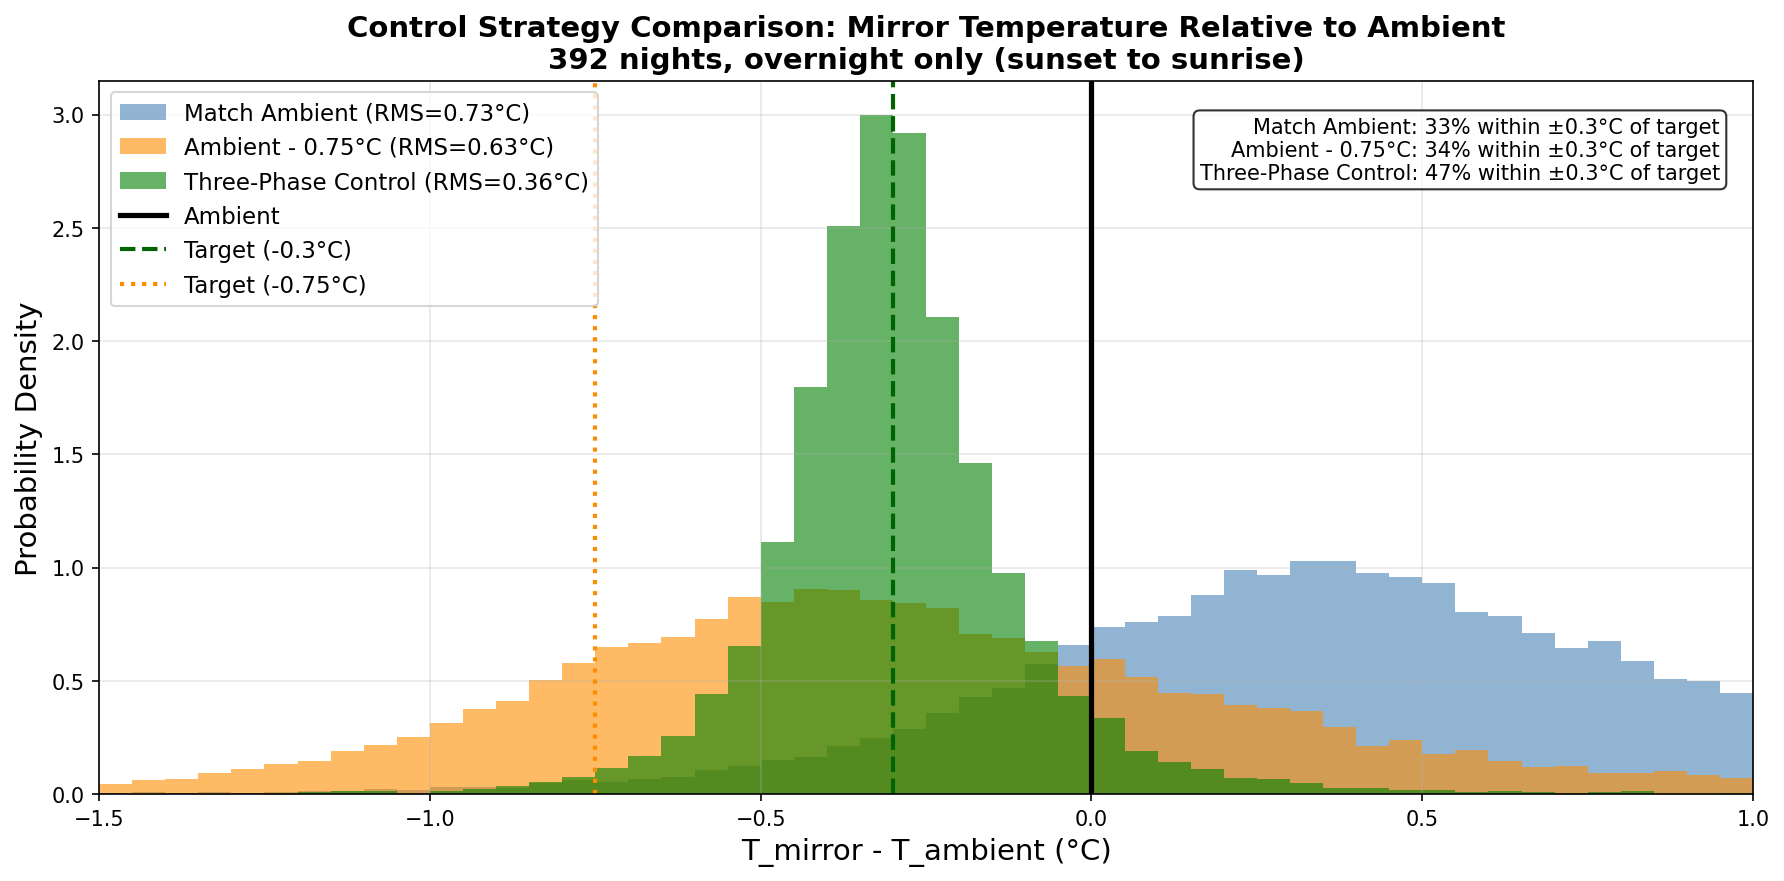
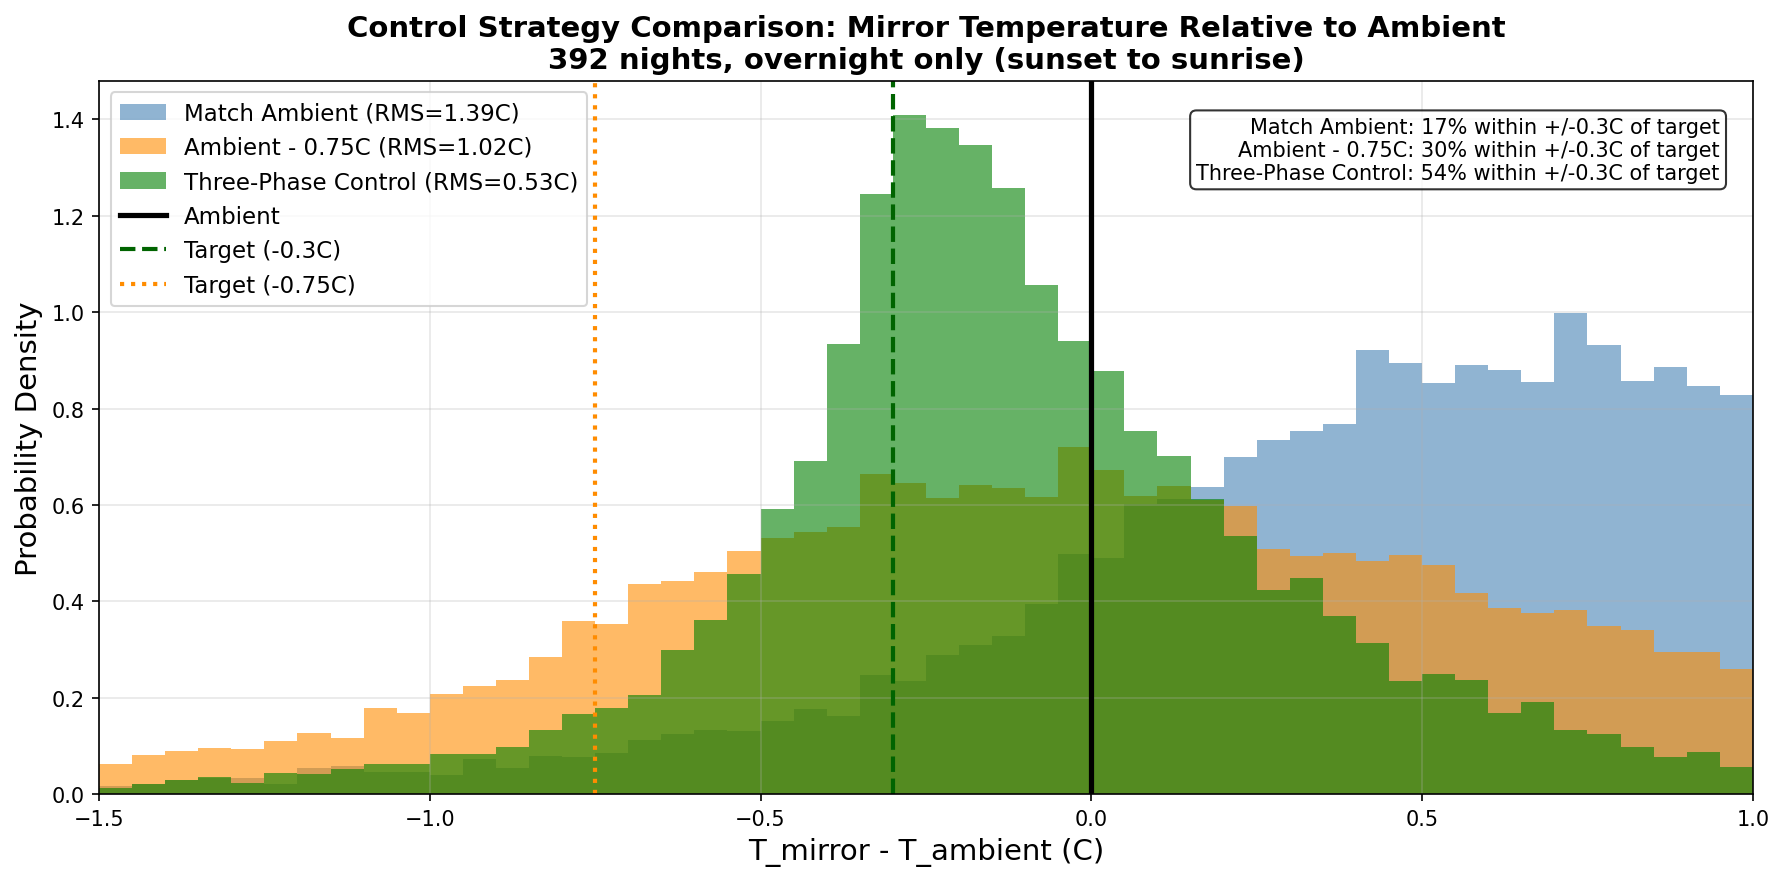
Update documentation and regenerate figures
- Update README.md with new repo structure and script guide
- Update CLAUDE.md with module breakdown and test details
- Set optimal config T1=-2h (from grid search optimization)
- Regenerate performance figures with 769 days of data

diff --git a/README.md b/README.md
@@ -1,94 +1,131 @@
 # Rubin Observatory Mirror Thermal Control
 
-Simulation and optimization of the thermal control system for the Rubin Observatory M1M3 primary/tertiary mirror at Cerro Pachon, Chile.
+Simulation and optimization of thermal control algorithms for the Rubin Observatory M1M3 primary/tertiary mirror at Cerro Pachon, Chile.
 
-## Problem
+## The Problem
 
-The M1M3 mirror has a large thermal time constant (~3 hours), meaning it cannot quickly track changes in ambient temperature. If the mirror is warmer than the surrounding air, convective plumes degrade image quality ("mirror seeing"). The goal is to keep the mirror approximately 0.3C below ambient at all times during nighttime observing, while respecting physical constraints on how fast the thermal control system can change its setpoint.
+The M1M3 mirror has a large thermal mass (time constant ~3 hours). If the mirror is warmer than ambient air, convective plumes cause "mirror seeing" that degrades image quality. The goal is to keep the mirror **~0.3°C below ambient** during nighttime observing.
 
-## Three-Phase Control Algorithm
+## Quick Start
 
-The core approach divides each 24-hour cycle into three phases:
+```bash
+# Install dependencies
+pip install -r requirements.txt
 
-**Phase 1 -- Daytime** (until T1 hours before sunset)
-- Dome is closed; HVAC maintains a fixed setpoint equal to the predicted sunset temperature minus a 0.3C cold bias.
+# Run optimization to find best parameters
+python scripts/optimize.py
 
-**Phase 2 -- Pre-Sunset Transition** (T1 to T2 hours before sunset)
-- Linear ramp from the fixed daytime setpoint toward active ambient tracking with rate compensation.
-- Bridges the gap between the static daytime target and the dynamic overnight algorithm.
-
-**Phase 3 -- Overnight** (T2 hours before sunset through sunrise)
-- Weighted lookahead algorithm using predicted ambient temperatures over the next 0-3 hours.
-- Includes rate-of-change compensation (0.5 * tau * dT/dt) to account for thermal lag.
-- Targets mirror temperature = ambient - 0.3C.
-
-### Physical Parameters
-
-| Parameter | Value | Description |
-|-----------|-------|-------------|
-| tau | 3.0 h | Mirror thermal time constant |
-| Max rate | 0.7 C/h | Maximum setpoint change rate |
-| Cold bias | 0.3 C | Target offset below ambient |
-| dt | 15 min | Simulation timestep |
+# Generate performance plots
+python scripts/performance.py
+```
 
 ## Repository Structure
 
-### Simulation Code
-
-- `three_phase_control.py` -- Main optimization script. Performs grid search over phase2 algorithms, T1, and T2 values using a train/test split (even/odd dates). Generates best-configuration plots.
-- `three_phase_performance_plots.py` -- Generates detailed performance figures: error histograms, CDFs, 20-night overview grid, and 6-night detailed views.
-- `sun_utils.py` -- Accurate sunrise/sunset calculations for Cerro Pachon using astropy. Provides `get_sun_times_for_date()` used by all simulation scripts.
-
-### Analysis & Visualization
-
-- `control_comparison_histogram.py` -- Compares three strategies: (1) match ambient, (2) fixed bias (ambient - 0.75C), (3) three-phase control. Generates overlay histograms.
-- `mirror_rate_histogram.py` -- Analyzes distribution of mirror vs ambient temperature rates of change during nighttime.
-- `three_day_plot.py` -- Generates a continuous 3-day simulation showing phase transitions, day/night cycles, and control behavior.
-- `analyze_warm_tail.py` -- Studies the warm-side tail of the error distribution (mirror warmer than ambient).
-
-### Reports
-
-- `thermal_control_report.tex` -- Comprehensive thermal control methodology and results.
-- `report1_prediction_methods.tex` -- Comparison of temperature prediction approaches.
-- `report2_thermal_control.tex` -- Thermal control system analysis.
-- `RAMP_algorithm_report.tex` -- Technical description of the RAMP control algorithm.
-- `slides_thermal_summary.tex` -- Beamer presentation slides.
-- `sunset_temperature_prediction_report.tex` -- Sunset temperature prediction methodology.
-
-### Data
-
-The temperature history CSV (not tracked in git due to size) contains ~50 days of continuous ambient temperature measurements from Cerro Pachon (December 2025 - January 2026) at sub-hourly resolution. Contact the authors for access.
-
-## Usage
-
-Run the optimization:
-```bash
-python3 three_phase_control.py
+```
+RubinThermal/
+├── config.yaml           # All tunable parameters
+├── rubin_thermal/        # Python package
+├── scripts/              # Analysis scripts
+├── tests/                # Unit tests (44 tests)
+├── data/                 # Temperature CSV files
+├── figures/              # Output plots
+├── docs/                 # Reports (PDF/TeX)
+└── notebooks/            # Jupyter notebooks
 ```
 
-Generate performance plots:
-```bash
-python3 three_phase_performance_plots.py
+## Scripts
+
+| Script | Purpose | Output |
+|--------|---------|--------|
+| `scripts/optimize.py` | Grid search over T1, T2, algorithms | Best config + `*_best.png`, `*_examples.png` |
+| `scripts/performance.py` | Evaluate current config | `*_histograms.png`, `*_20_nights.png`, `*_detailed_nights.png` |
+| `scripts/compare.py` | Compare vs baseline strategies | `control_comparison_*.png` |
+| `scripts/rate_analysis.py` | Mirror rate-of-change analysis | `mirror_rate_histogram.png` |
+| `scripts/three_day.py` | 3-day continuous simulation | `three_phase_3day.png` |
+| `scripts/warm_tail.py` | Analyze warm events (mirror > ambient) | Console output |
+
+### Recommended Order
+
+1. **`optimize.py`** — Find optimal T1, T2, and phase2 algorithm
+2. **`performance.py`** — Generate detailed performance plots
+3. **`compare.py`** — See improvement over baselines
+
+## Output Plots
+
+All plots are saved to `figures/`. Key outputs:
+
+| Plot | Description |
+|------|-------------|
+| `three_phase_07rate_3tau_histograms.png` | Error distribution histograms + CDF |
+| `three_phase_07rate_3tau_20_nights.png` | Grid of 20 example nights |
+| `three_phase_07rate_3tau_detailed_nights.png` | 6 nights with error traces |
+| `control_comparison_histogram.png` | Three-phase vs baselines |
+| `three_phase_3day.png` | 3-day continuous simulation |
+
+## Configuration
+
+All parameters are in `config.yaml`:
+
+```yaml
+physics:
+  tau: 3.0              # Mirror thermal time constant (hours)
+  max_rate: 0.7         # Maximum setpoint change rate (C/hour)
+  cold_bias: 0.3        # Target below ambient (C)
+
+control:
+  t1: -2                # Phase 2 start (hours before sunset)
+  t2: 0                 # Phase 3 start (at sunset)
 ```
 
-Both scripts expect the data file `temp_history_all_dec2025_sunrise_sunset.csv` in the working directory.
+## The Three-Phase Algorithm
 
-### Dependencies
-
-- numpy
-- pandas
-- matplotlib
-- astropy
-- scipy
+| Phase | Time | Algorithm |
+|-------|------|-----------|
+| **1. Daytime** | t < T1 | Fixed setpoint = predicted sunset temp - 0.3°C |
+| **2. Transition** | T1 ≤ t < T2 | Linear ramp from fixed → tracking |
+| **3. Overnight** | t ≥ T2 | Weighted lookahead + rate compensation |
 
 ## Results
 
-With tau = 3.0 h and max setpoint rate = 0.7 C/h, the optimal configuration (Ramp fixed-to-track, T1 = -2h, T2 = 0h) achieves on the 392-night test set:
+Optimal config: **T1=-2h, T2=0h, Ramp fixed→track**
 
-- **Sunset error:** -0.08 +/- 0.11 C (100% within +/-0.3C)
-- **Overnight RMS:** 0.44 C
-- **Overnight within +/-0.3C:** ~59%
+| Metric | Value |
+|--------|-------|
+| Sunset error | -0.08 ± 0.11°C |
+| Sunset within ±0.3°C | 100% |
+| Overnight RMS | 0.44°C |
+| Overnight within ±0.3°C | ~59% |
+
+*Tested on 392 nights (odd-date test set)*
+
+## Data
+
+Temperature data goes in `data/`:
+- `temp_history_all_dec2025_sunrise_sunset.csv` — Primary dataset (~50 days)
+- `temp_history_jan2026.csv` — Additional data
+
+## Reports
+
+Technical documentation in `docs/`:
+- `thermal_control_report.pdf` — Main methodology
+- `RAMP_algorithm_report.pdf` — Algorithm details
+- `slides_thermal_summary.pdf` — Presentation slides
+
+## Running Tests
+
+```bash
+pytest tests/ -v
+```
+
+44 tests covering physics, data loading, control algorithms, and simulation.
 
 ## Location
 
-Cerro Pachon, Chile: 30.2444 S, 70.7494 W, elevation 2700 m.
+Cerro Pachon, Chile: 30.2444°S, 70.7494°W, 2700m elevation
+
+## Dependencies
+
+- numpy, pandas, matplotlib, scipy
+- astropy (sun calculations)
+- pyyaml (configuration)
+- pytest (testing)

diff --git a/CLAUDE.md b/CLAUDE.md
@@ -25,13 +25,16 @@ RubinThermal/
 │   ├── three_day.py         # 3-day continuous plot
 │   └── warm_tail.py         # Warm tail analysis
 │
-├── tests/                   # Unit and integration tests
-│   ├── test_physics.py
-│   ├── test_data.py
-│   ├── test_control.py
-│   └── test_simulation.py
+├── tests/                   # Unit and integration tests (44 tests)
+│   ├── conftest.py          # Pytest fixtures
+│   ├── test_physics.py      # Physics functions tests
+│   ├── test_data.py         # Data loading tests
+│   ├── test_control.py      # Control algorithm tests
+│   ├── test_simulation.py   # Integration tests
+│   ├── fixtures/            # Test data samples
+│   └── golden/              # Expected outputs for regression
 │
-├── data/                    # Temperature data (not in git)
+├── data/                    # Temperature data
 ├── figures/                 # Output plots
 ├── docs/                    # Reports and presentations
 ├── notebooks/               # Jupyter notebooks
@@ -46,7 +49,7 @@ RubinThermal/
 The active control algorithm is a **three-phase system**:
 
 - **Phase 1 (Daytime):** Fixed setpoint at predicted sunset temperature minus 0.3C cold bias. Dome is closed, HVAC maintains temperature.
-- **Phase 2 (Pre-sunset transition):** Linear ramp from fixed to tracking. Best config uses T1=-3h (start), T2=0h (end at sunset).
+- **Phase 2 (Pre-sunset transition):** Linear ramp from fixed to tracking. Best config uses T1=-2h (start), T2=0h (end at sunset).
 - **Phase 3 (Overnight):** Weighted lookahead over next 0-3 hours with rate compensation (0.5 * tau * dT/dt) and 0.3C cold bias.
 
 ### Configuration
@@ -61,7 +64,7 @@ physics:
   dt: 0.25              # Simulation timestep (hours)
 
 control:
-  t1: -3                # Phase 2 start (hours before sunset)
+  t1: -2                # Phase 2 start (hours before sunset)
   t2: 0                 # Phase 3 start (at sunset)
   lookahead_hours: 3.0
   lookahead_points: 13
@@ -78,12 +81,23 @@ control:
 
 ```python
 from rubin_thermal import (
+    # Config
     CONFIG,
+    load_config,
+    get_project_root,
+    # Data
     load_temperature_data,
     build_day_database,
     train_test_split,
+    # Physics
     ThermalModel,
+    interpolate_temp,
+    compute_rate,
+    make_linear_kernel,
+    # Control
     three_phase_setpoint,
+    # Sun
+    get_sun_times_for_date,
 )
 
 # Load data
@@ -92,10 +106,14 @@ days = build_day_database(df)
 train_days, test_days = train_test_split(days)
 
 # Create model with config parameters
-model = ThermalModel()
+model = ThermalModel()  # Uses CONFIG values by default
 
 # Compute setpoint for a given time
 setpoint, phase = three_phase_setpoint(t, T_amb, T_sunset, rate, hours, temps)
+
+# Thermal dynamics step
+new_temp = model.step(T_mirror_current, T_setpoint)
+limited_setpoint = model.apply_rate_limit(new_setpoint, old_setpoint)
 ```
 
 ## Thermal Model
@@ -115,29 +133,62 @@ The setpoint is rate-limited: `|dT_setpoint/dt| <= MAX_RATE`.
 - Error is defined as `T_mirror - (T_ambient - COLD_BIAS)`, so negative error = colder than target (acceptable), positive error = warmer than target (bad).
 - Performance is evaluated from sunset to sunrise only (overnight observing window).
 
+## Module Breakdown
+
+### `rubin_thermal/config.py`
+Loads `config.yaml` and provides `CONFIG` dict with all parameters.
+
+### `rubin_thermal/data.py`
+- `load_temperature_data()` -- Load CSV, add 'hours' column
+- `build_day_database(df)` -- Build list of day dicts with sunset times and temp arrays
+- `train_test_split(days)` -- Split by even/odd dates
+
+### `rubin_thermal/physics.py`
+- `interpolate_temp()`, `compute_rate()`, `make_linear_kernel()` -- Utility functions
+- `thermal_step()` -- Single-step thermal dynamics
+- `ThermalModel` -- Class encapsulating tau, max_rate, dt
+
+### `rubin_thermal/control.py`
+- `phase1_fixed()`, `phase2_ramp()`, `phase3_lookahead()` -- Phase algorithms
+- `three_phase_setpoint()` -- Unified setpoint function returning (setpoint, phase)
+
+### `rubin_thermal/sun.py`
+- `get_sunset_utc()`, `get_sunrise_utc()` -- Sun position calculations using astropy
+- `get_sun_times_for_date()` -- Get sunset/sunrise for a specific date
+
 ## Running Scripts
 
 ```bash
 # Install dependencies
 pip install -r requirements.txt
 
-# Run optimization (grid search)
+# Run optimization (grid search over T1, T2, phase2 algorithms)
 python scripts/optimize.py
 
-# Generate performance plots
+# Generate performance histograms and example night plots
 python scripts/performance.py
 
-# Compare control strategies
+# Compare three-phase vs baseline strategies
 python scripts/compare.py
 
-# Run tests
+# Analyze mirror temperature change rates
+python scripts/rate_analysis.py
+
+# Generate 3-day continuous plot
+python scripts/three_day.py
+
+# Analyze warm tail events (mirror > ambient)
+python scripts/warm_tail.py
+
+# Run all tests (44 tests)
 pytest tests/ -v
 ```
 
-## Data Files (not in git)
+## Data Files
 
-Place temperature data in `data/`:
+Temperature data in `data/`:
 - `temp_history_all_dec2025_sunrise_sunset.csv` -- Primary dataset. Columns: `timestamp`, `y` (temperature in C). ~50 days of continuous ambient temperature at sub-hourly resolution from Cerro Pachon, Dec 2025 - Jan 2026.
+- `temp_history_jan2026.csv` -- Additional January 2026 data.
 
 ## Plot Naming Convention
 
